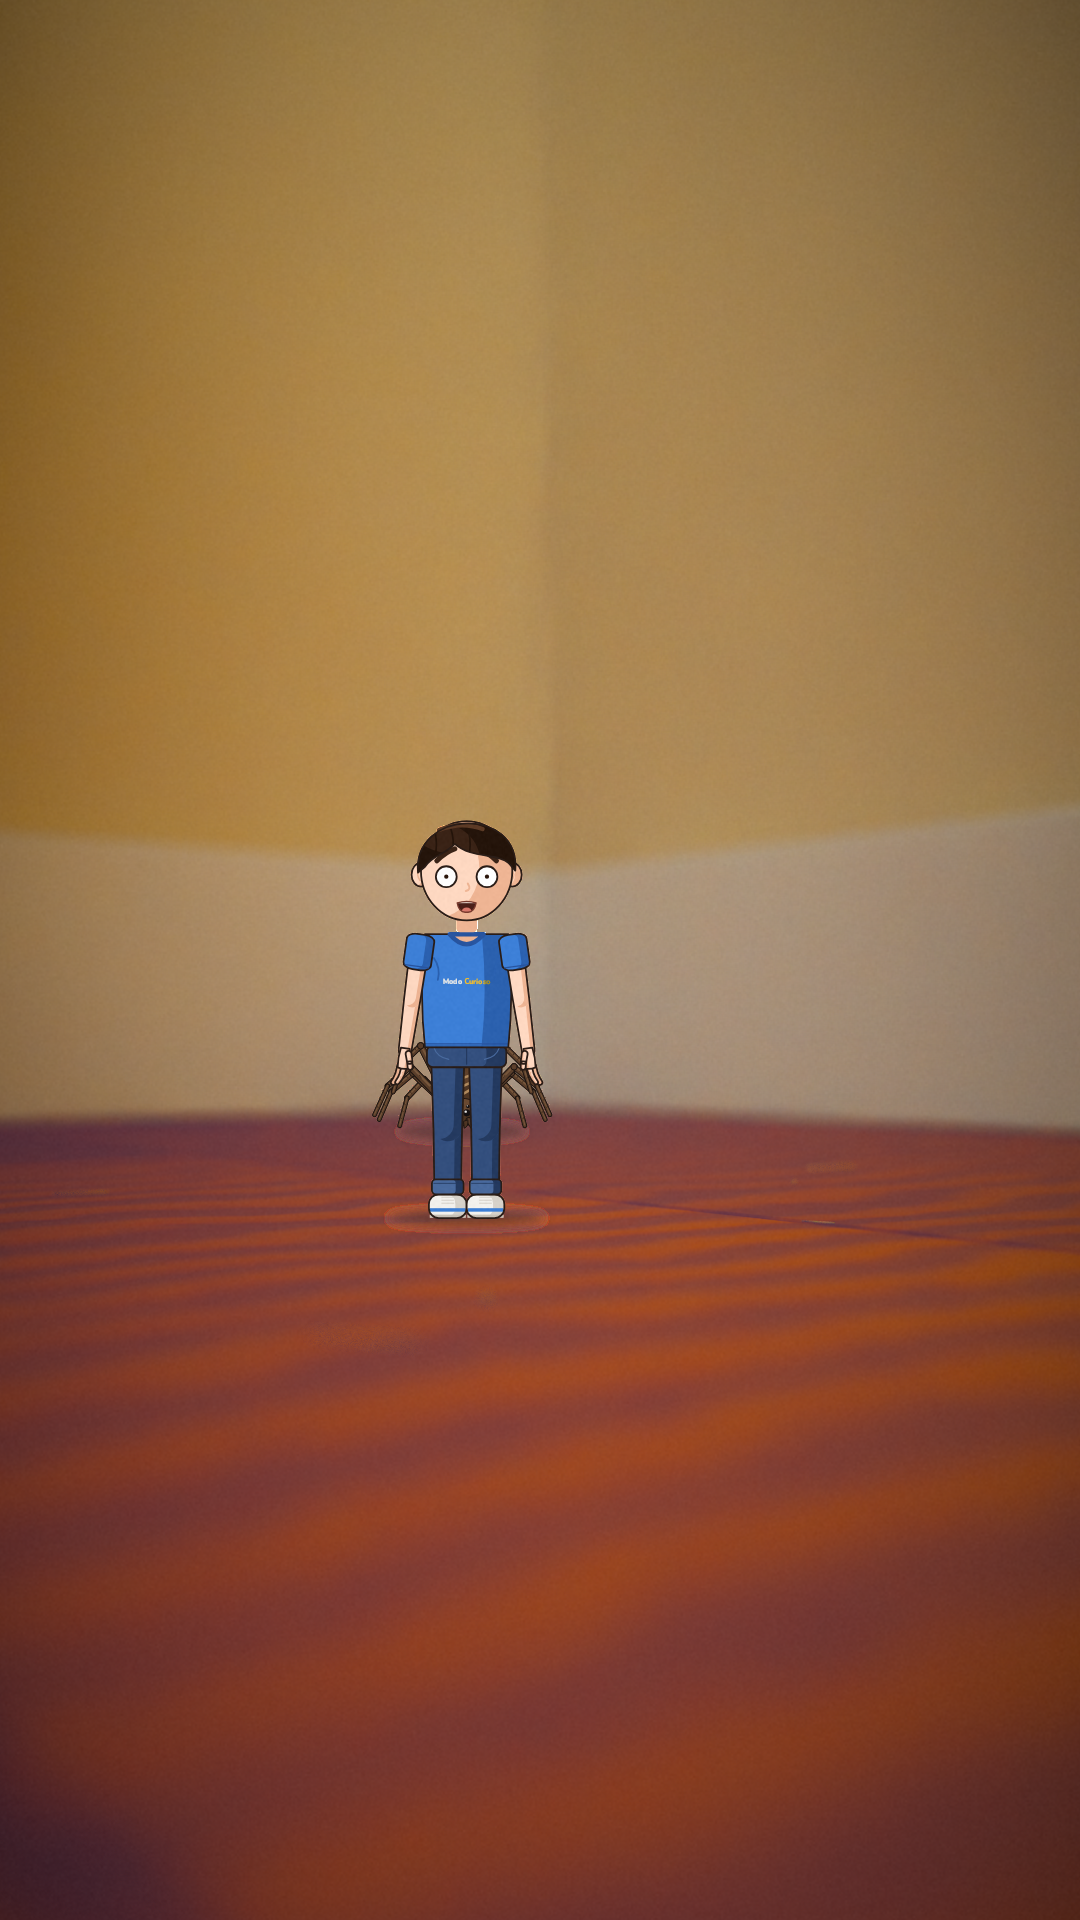
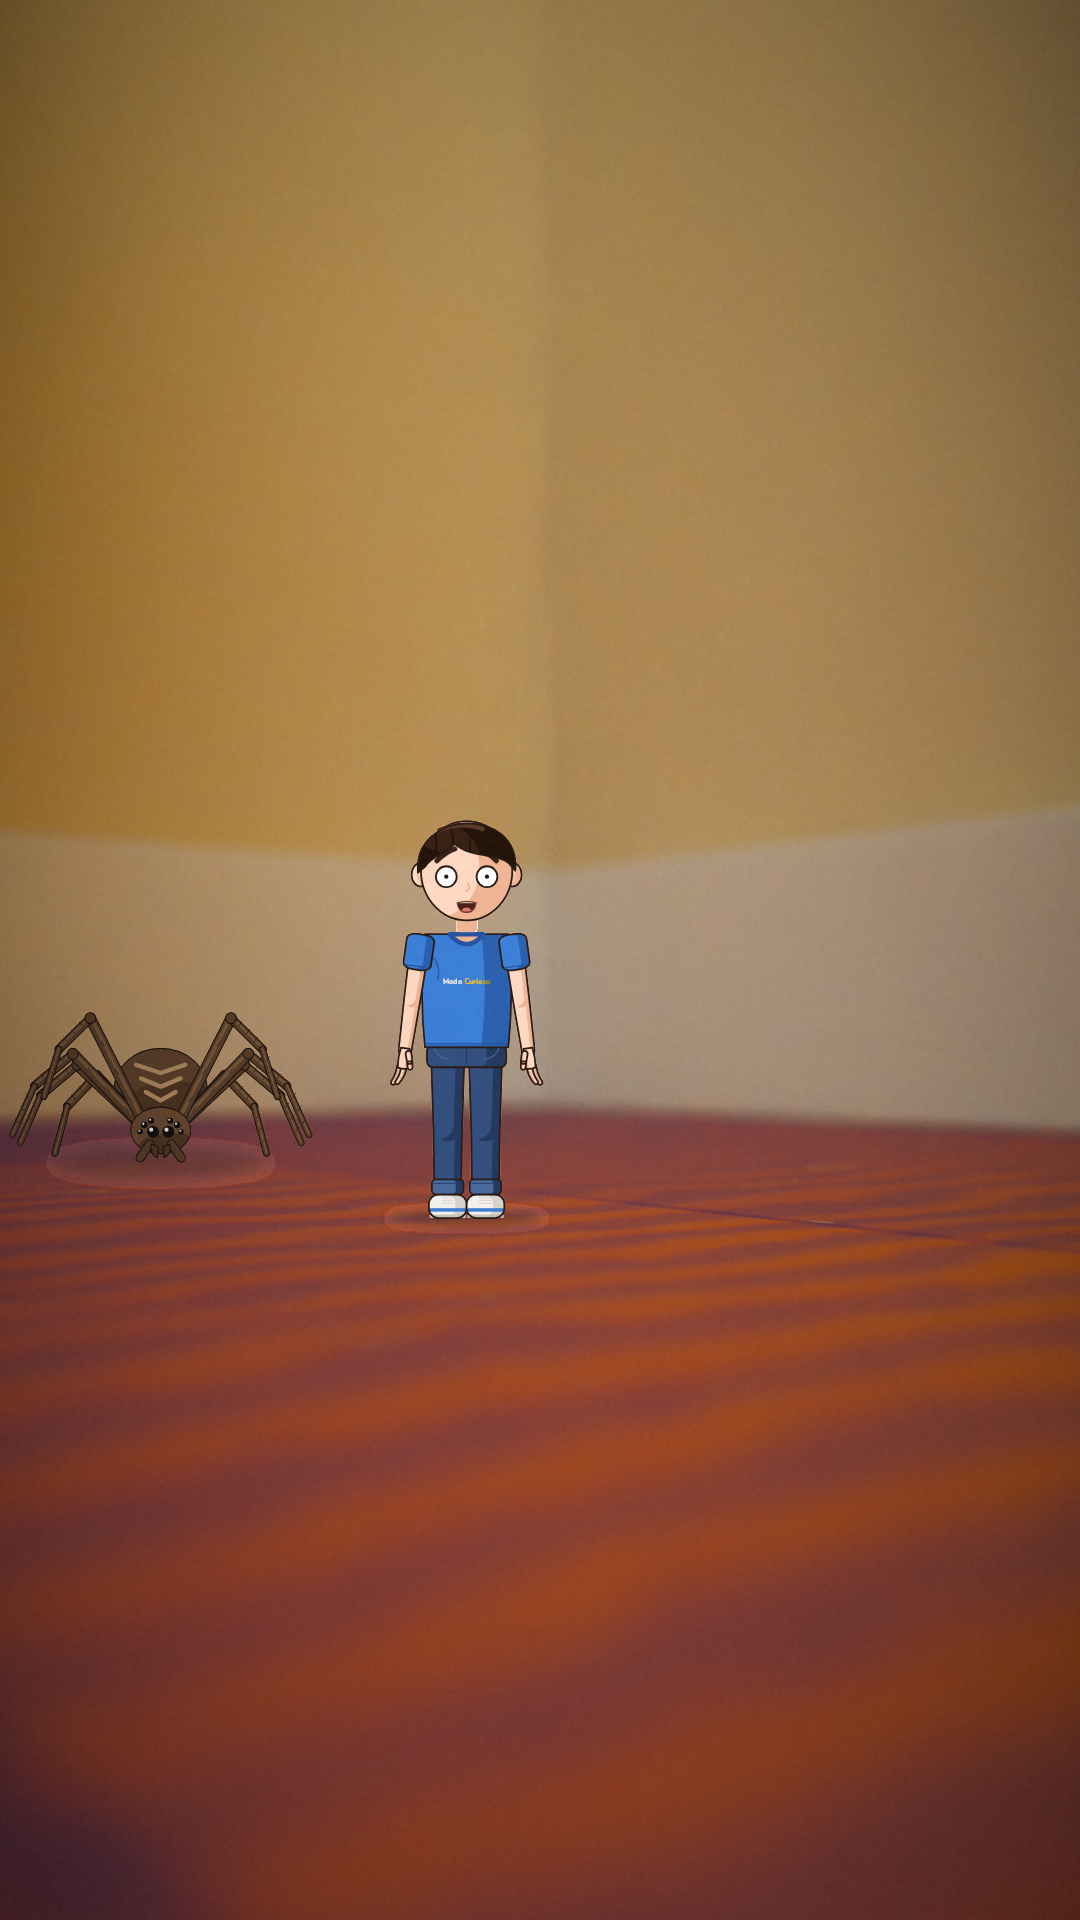
E10 parte 2: planos E–H finais (escada, degrau, gato na sala, aranha no rodapé) e relatório
Claude-Session: https://claude.ai/code/session_011EYkUQs91cFecP9FoWchAQ

Changed region(s): [[0.0, 0.5312, 0.3056, 0.625], [0.4278, 0.5312, 0.5194, 0.5938], [0.3361, 0.5312, 0.3972, 0.5938]]

diff --git a/cenografia/testes/e10_testes.py b/cenografia/testes/e10_testes.py
@@ -70,8 +70,8 @@ def planos(r):
                      "heitor": [0.0, 0.50, 0.36], "abertura": 4.0, "rosto": "preocupacao",
                      "rotulo": "no meio da escada: o próximo espelho é um muro mais alto que ele"},
         "G_sala_gato": {"base": "e10_sala.json", "cam": {"pos": [0.12, -0.62, 0.035], "alvo": [0.55, 0.35, 0.18], "lente_mm": 18},
-                        "heitor": [0.2, -0.4, 0.008], "abertura": 5.6, "rosto": None, "vista": "costas",
-                        "extras": [{"tipo": "gato", "pos": [0.50, -0.02, 0.008], "altura_m": 0.19, "pose": "agachado", "direcao": -1, "pupila": 1.0}],
+                        "heitor": [0.36, -0.10, 0.008], "abertura": 5.6, "rosto": None, "vista": "costas",
+                        "extras": [{"tipo": "gato", "pos": [0.60, 0.06, 0.008], "altura_m": 0.19, "pose": "agachado", "direcao": -1, "pupila": 1.0}],
                         "rotulo": "sala: o gato (personagem original 2D) agachado, caçando, diante do Heitor"},
         "H_aranha_canto": {"base": "e10_sala.json", "cam": {"pos": [1.72, 1.42, 0.022], "alvo": [2.09, 1.89, 0.05], "lente_mm": 22},
                            "heitor": [1.85, 1.60, 0.0], "abertura": 4.0, "rosto": "medo",

diff --git a/cenografia/testes/E10_RELATORIO.md b/cenografia/testes/E10_RELATORIO.md
@@ -45,3 +45,53 @@ Valores medidos:
 - **Sala com o gato:** gato e aranha como personagens 2D originais.
 - **Sobrevivência:** vento na janela e poça.
 - **Insert científico:** quadrado-cubo, peso ÷21.952 e força ÷784.
+
+---
+
+# E10 parte 2 — escada, sala, gato, aranha e insert científico
+
+## Novos cenários e peças
+- **Componentes novos** (`interior.py`):
+  - `escada`: degraus maciços até o chão, espelho de 18 cm e piso de 28 cm, focinho chanfrado, paredes, corrimão e piso do corredor;
+  - `luminaria_teto`: plafon aceso no grupo "artificial";
+  - `sofa`: 3 lugares, com almofadas;
+  - `mesa_centro`.
+- **Receitas:** `e10_escada.json` e `e10_sala.json`, a sala com sofá, mesa, tapete, vaso (reuso do kit E5) e quadro.
+- **Moiré corrigido:** o relevo da trama do tecido some entre 0,6 m e 1,5 m da câmera, pela distância de visão (`Camera Data`).
+
+## Personagens originais 2D (`personagens/animais/`)
+Folha de modelo em `personagens/animais/folhas/folha_gato_aranha.png`. São desenhos próprios, sem copiar personagem de terceiros. Seguem o estilo do Heitor: cores lisas, um tom de sombra e contorno fino.
+- **Gato** (`gato.py`): cinza-azulado rajado, peito creme, olhos verde-limão.
+  - Poses: `sentado`; `agachado` (caçando, com orelhas de lado e cauda reta).
+  - Pupila: de fenda fina (0) a dilatada (1).
+  - Closes: `pata` (garras saem de 0 a 1) e `olho`.
+- **Aranha** (`aranha.py`): aranha doméstica marrom com chevrons no abdômen.
+  - Anatomia: oito patas de três segmentos com pelos curtos; oito olhos (dois grandes à frente); pedipalpos e quelíceras.
+  - Movimento: `fase` (passo alternado) e `levantar_frente` (ameaça).
+
+## Planos E–H (1080×1920)
+| Plano | O que mostra |
+|---|---|
+| E_escada_base | o Heitor de costas no pé da escada; os degraus sobem como paredões |
+| F_degrau | o Heitor em cima de um degrau, diante do próximo espelho, 3,6 vezes mais alto que ele |
+| G_sala_gato | o gato agachado, caçando, ao lado do Heitor na mesma distância da câmera: a escala real (19 cm × 5 cm) fica legível |
+| H_aranha_canto | a aranha, com 5 cm de envergadura, perto do rodapé, ao lado e atrás do Heitor, que está com medo |
+
+QA da cena: nada flutuando e nenhum texto 3D nos quatro planos.
+
+## Insert científico (`producoes/ep01_cinco_centimetros/inserts/quadrado_cubo.py`)
+Padrão do canal: fundo azul-marinho com bokeh e partículas, Heitor "fantasma" translúcido de 1,40 m, lupa no Heitor de 5 cm e números grandes em amarelo.
+
+| Número | Conta |
+|---|---|
+| ÷ 28 | 1,40 / 0,05 |
+| ÷ 21.952 (peso) | 28³ |
+| ÷ 784 (força) | 28² |
+| × 28 mais forte em relação ao próprio peso | 21.952 / 784 |
+
+As barras estão em **escala logarítmica, com aviso na tela**. Em escala linear as duas sumiriam e não daria para ver que o peso cai muito mais que a força.
+
+## Limitações
+- O gato e a aranha ficam na camada do personagem, com a profundidade do Heitor. Nesses enquadramentos nada da cena passa na frente deles; numa cena com objetos à frente, cada um precisa da própria profundidade.
+- As poses do gato são seguradas (pose a pose), como pede o padrão. A animação entre poses vem na montagem.
+- Falta a cena da sobrevivência (vento da janela e poça), que reaproveita o quarto (poça e janela) e o vento da X2.
